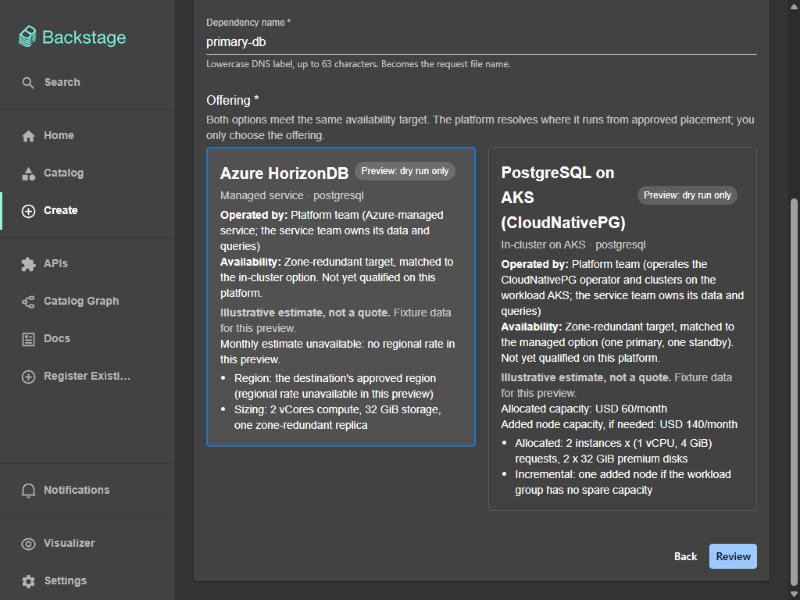
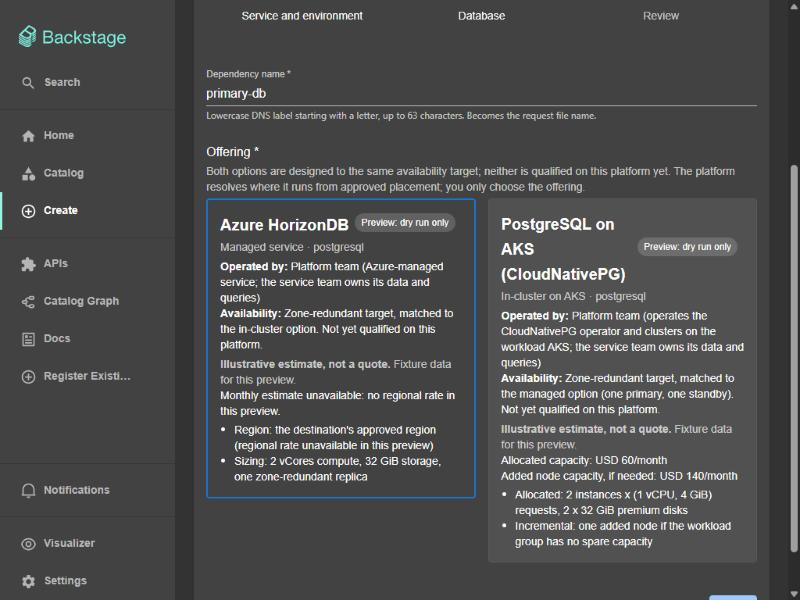
Re-capture the offering comparison screenshot after the review fixes

diff --git a/backstage/app/docs/evidence/milestone-1/README.md b/backstage/app/docs/evidence/milestone-1/README.md
@@ -36,7 +36,7 @@ responses are in [`sandbox/`](sandbox/) and [`enterprise/`](enterprise/).
 
 | Screenshot | What it shows |
 | --- | --- |
-| `01-compare-offerings.jpg` | HorizonDB and CloudNativePG side by side. Each card shows the operating owner, availability target, a "Preview: dry run only" badge and "Illustrative estimate, not a quote". HorizonDB shows that no regional rate is available. CloudNativePG shows allocated capacity and added node spend separately. |
+| `01-compare-offerings.jpg` | Re-captured at `1430850`, after the review fixes. HorizonDB and CloudNativePG side by side, both described as designed to the same availability target and not yet qualified. Each card shows the operating owner, availability target, a "Preview: dry run only" badge and "Illustrative estimate, not a quote". HorizonDB shows that no regional rate is available. CloudNativePG shows allocated capacity and added node spend separately. |
 | `02-review-horizondb.jpg` | The Review step, with only the four logical fields |
 | `05-run-azure-horizondb.jpg` | A run through the form: the exact file plus the backend-derived owner (`group:default/team-a`), repository (`team-a/deploy`) and destination |
 | `04-run-cloudnative-pg.jpg` | The same request with CloudNativePG: same path, different `offering`, destination `sandbox-shared-workloads` |
